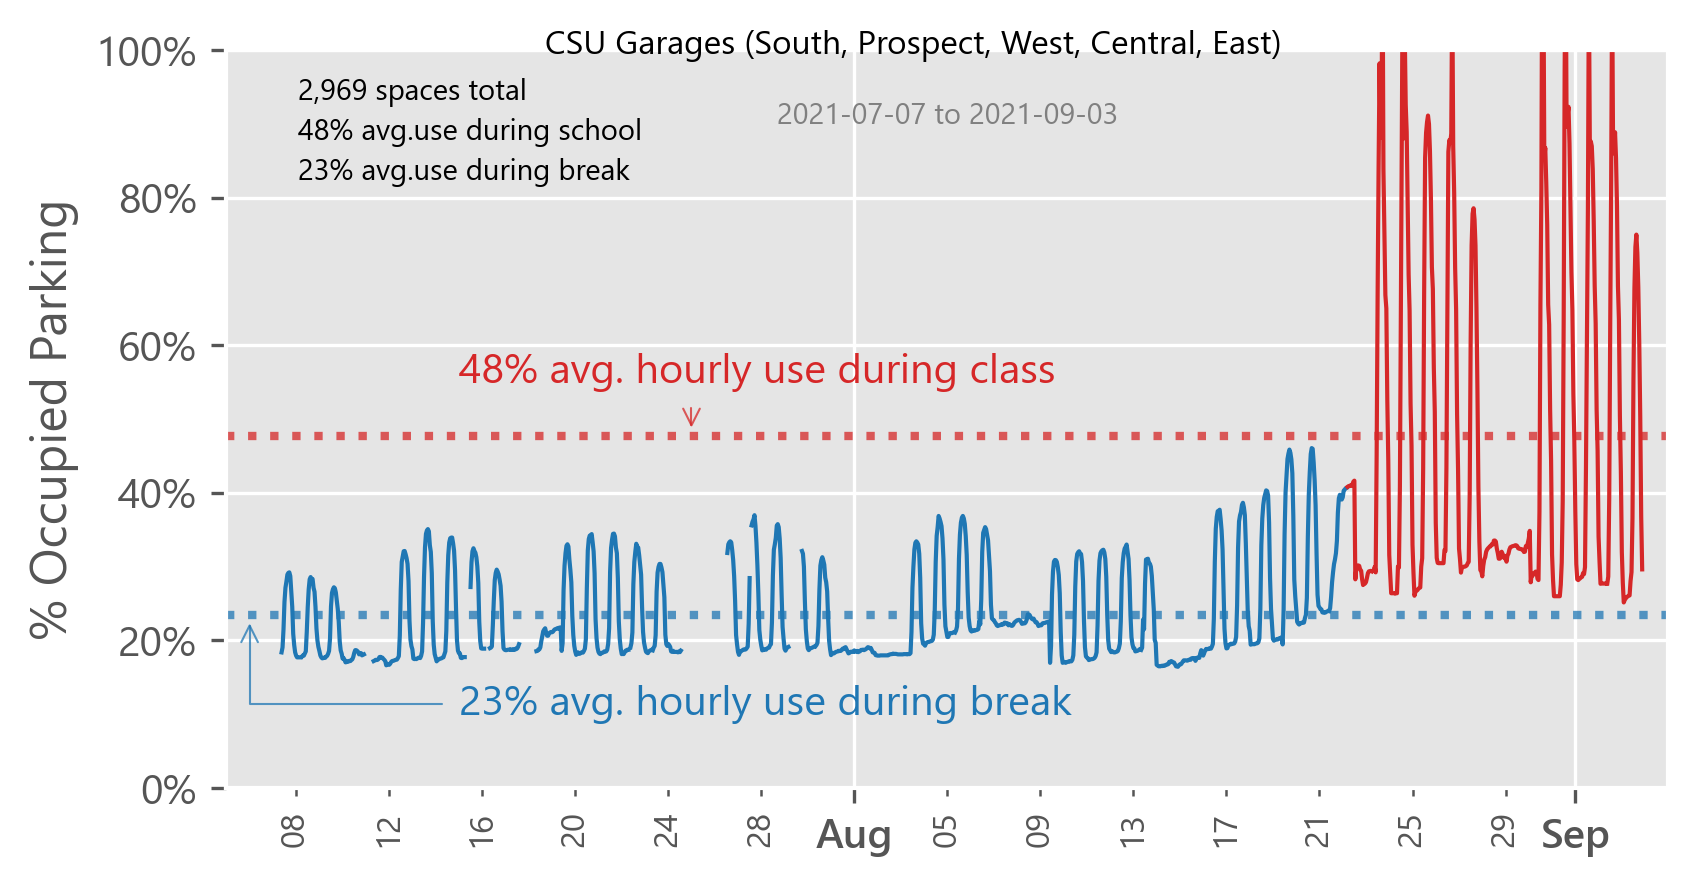
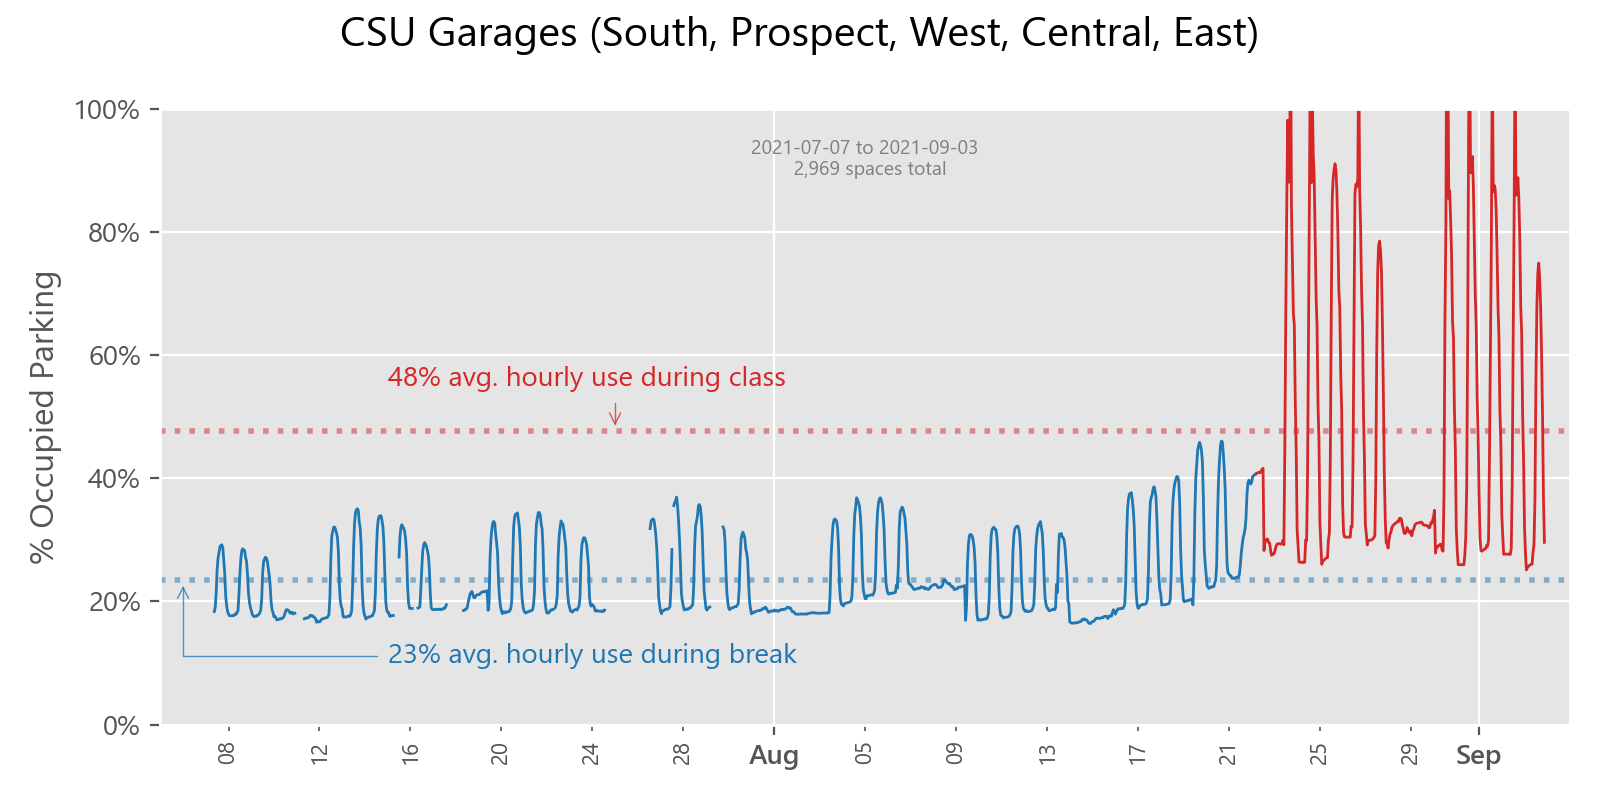
avg lines colors and plots 2

diff --git a/charts.py b/charts.py
@@ -8,6 +8,7 @@ import matplotlib as mpl
 import numpy as np
 
 plt.style.use('ggplot')
+plt.interactive(False)
 mpl.rcParams['font.family'] = 'Segoe UI'
 df = pd.read_csv('CSU_parking_live.csv', index_col='date', parse_dates=True)
 cols = df.columns
@@ -28,7 +29,7 @@ off_season_hrs = hourlymins[hourlymins.index <= '2021-08-22']
 in_school_hrs = hourlymins[hourlymins.index > '2021-08-22']
 
 # plot the final column percentages
-fig, ax = plt.subplots(figsize=[15, 10], dpi=300)
+fig, ax = plt.subplots(figsize=[8, 4], dpi=200)
 ax.plot('percent_use', '-', ms=1, lw=1, data=off_season_hrs, c='tab:blue')
 ax.plot('percent_use', '-', ms=1, lw=1, data=in_school_hrs, c='tab:red')
 
@@ -61,25 +62,22 @@ average_use_break = off_season_hrs['percent_use'].mean()
 average_use_school = in_school_hrs['percent_use'].mean()
 
 xalign = 0.05
-plt.text(xalign, .825, f'{capacity_total:,d}' + ' spaces total' + '\n'
-         + f'{average_use_school:,.0%} avg.use during school' + '\n' + f'{average_use_break:,.0%} avg.use during break',
-         ha='left', linespacing=1.5, transform=ax.transAxes, fontsize='7' )
 
 # off peak average line
-plt.axhline(average_use_break, ls=':', lw=2, c='tab:blue', alpha=.75)
+plt.axhline(average_use_break, ls=':', lw=2, c='tab:blue', alpha=.5)
 plt.annotate(f'{average_use_break:.0%} avg. hourly use during break', xy=(date_min + 1, average_use_break),
              xytext=(date_min + 10, .1), c='tab:blue',
              arrowprops={'arrowstyle': '->', 'connectionstyle': "angle,angleA=180,angleB=90", 'color': 'tab:blue',
                          'lw': '.5', 'alpha': 0.75})
 # school season line
-plt.axhline(average_use_school, ls=':', lw=2, c='tab:red', alpha=.75)
+plt.axhline(average_use_school, ls=':', lw=2, c='tab:red', alpha=.5)
 plt.annotate(f'{average_use_school:.0%} avg. hourly use during class', xy=(date_min + 20, average_use_school),
              xytext=(date_min + 10, .55), c='tab:red',
              arrowprops={'arrowstyle': '->', 'connectionstyle': "angle,angleA=180,angleB=90", 'color': 'tab:red',
                          'lw': '.5', 'alpha': 0.75})
 
-plt.text(.5,.9 , f'{date_min+2} to {date_max-2}', size=7, c='gray', ha='center', transform= ax.transAxes)
+plt.text(.5,.95 , f'{date_min+2} to {date_max-2}\n  {capacity_total:,d} spaces total', size=7, va='top', c='gray', ha='center', transform= ax.transAxes)
 
-plt.suptitle(f'CSU Garages (South, Prospect, West, Central, East)', size=8)
+plt.suptitle(f'CSU Garages (South, Prospect, West, Central, East)', size=15)
 plt.tight_layout()
-plt.savefig('./exports/ex1.png', bbox_inches = 'tight' )
+plt.savefig('./exports/ex1.png' )
